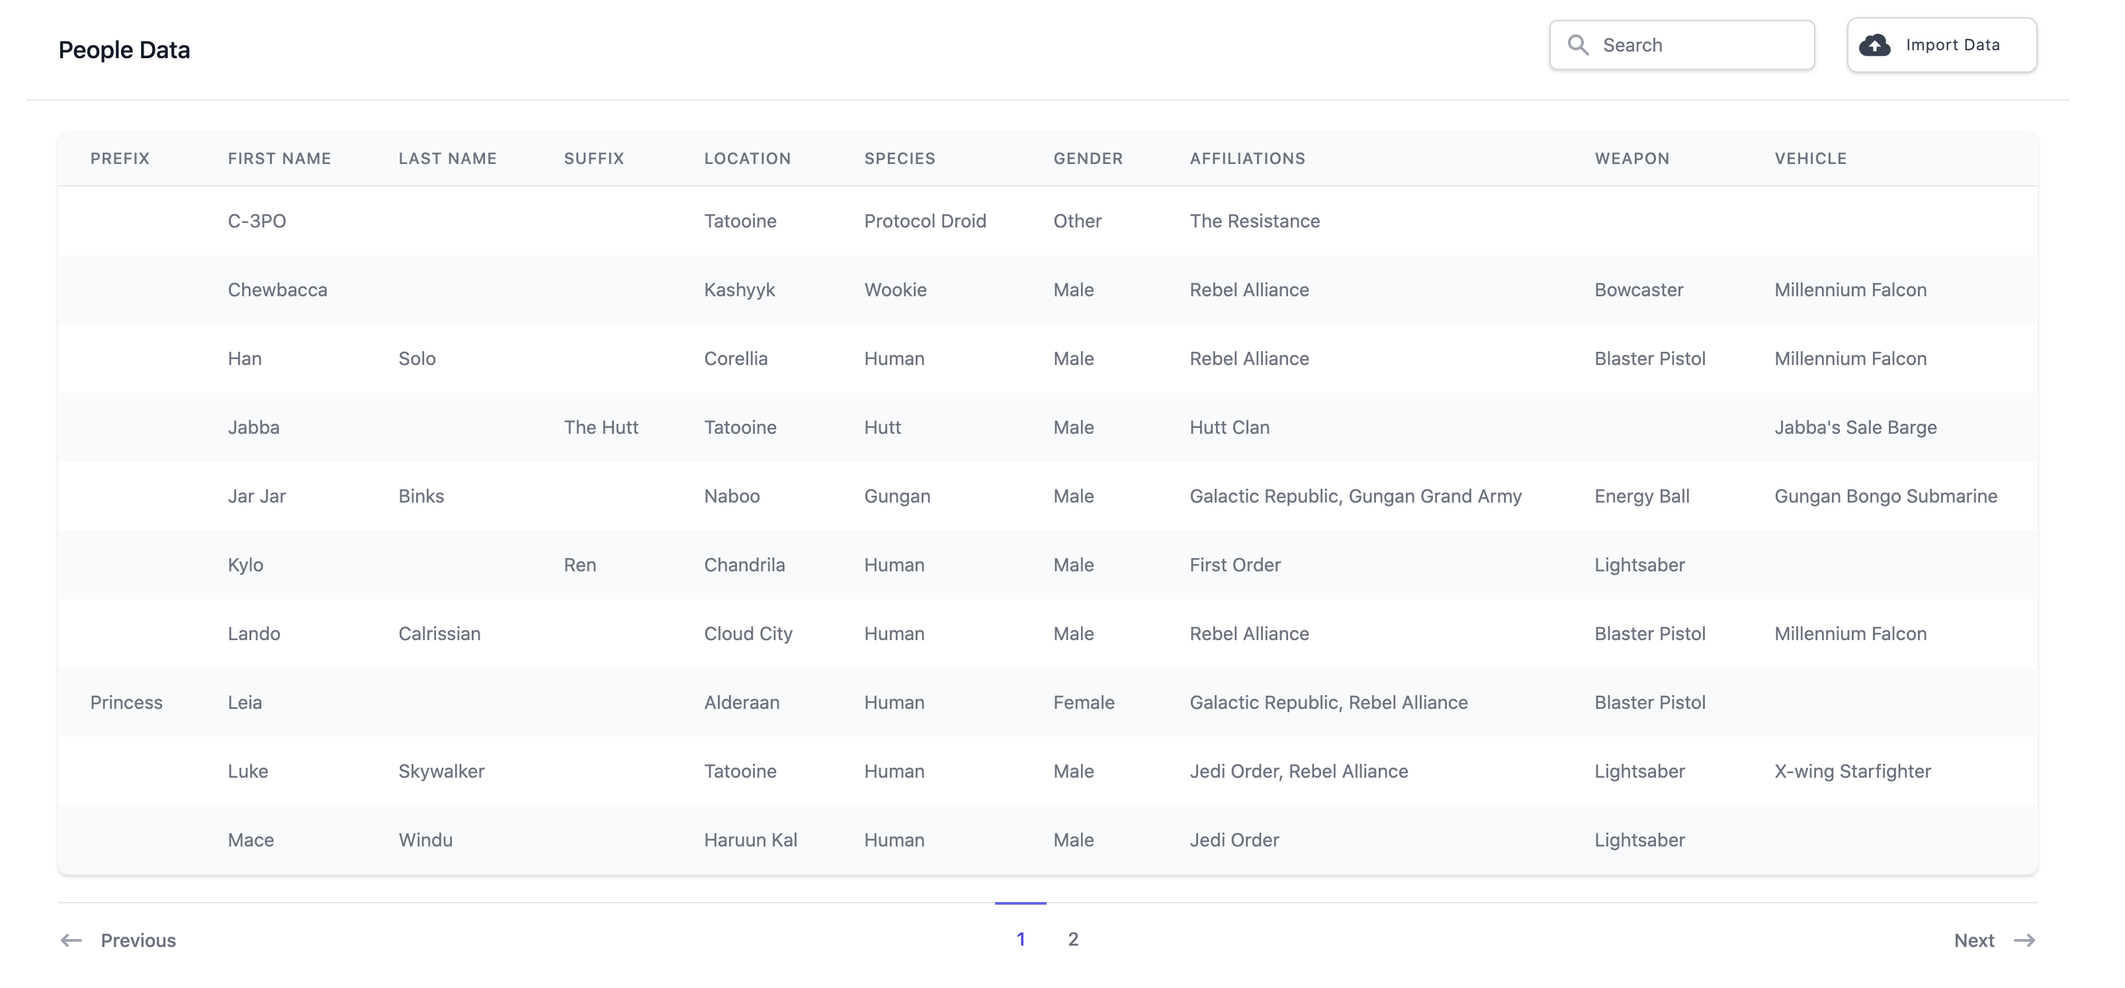
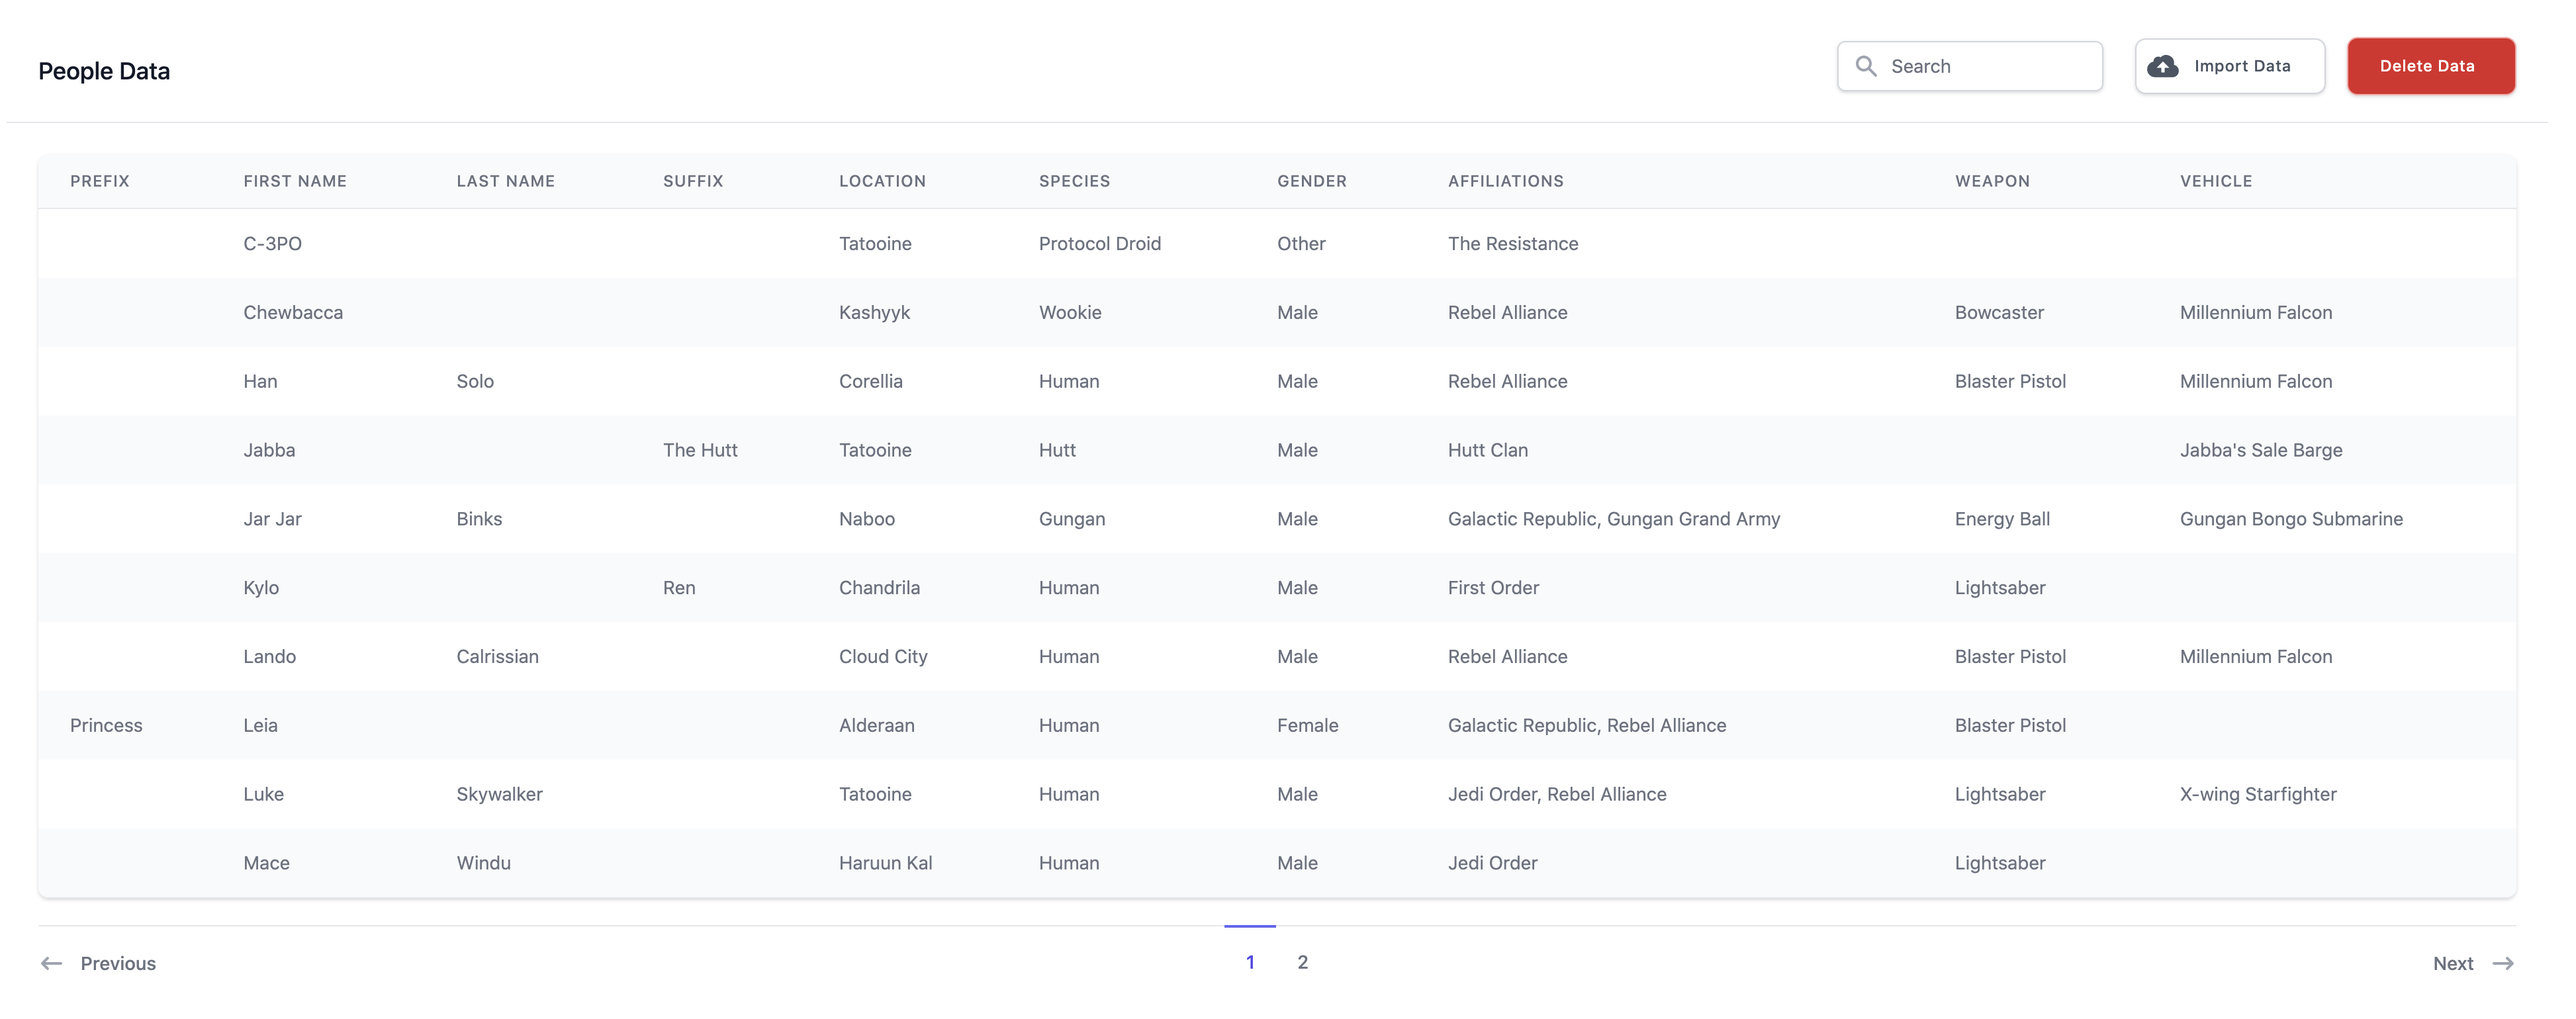
Add delete data button

diff --git a/app/javascript/stylesheets/people.scss b/app/javascript/stylesheets/people.scss
@@ -12,5 +12,5 @@
 }
 
 .data-import {
-  @apply w-36 flex items-center px-2 py-2 bg-white text-gray-700 rounded-lg shadow tracking-wide border border-gray-300 cursor-pointer hover:bg-indigo-500 hover:text-white;
+  @apply w-36 flex items-center px-2 py-2 bg-white text-gray-600 rounded-lg shadow tracking-wide border border-gray-300 cursor-pointer hover:bg-indigo-500 hover:text-white font-medium;
 }

diff --git a/app/controllers/data_imports_controller.rb b/app/controllers/data_imports_controller.rb
@@ -1,0 +1,13 @@
+class DataImportsController < ApplicationController
+  def create
+    DataImporter.import(params[:file])
+    redirect_to root_url, flash: { success: "Data imported successfully!" }
+  rescue
+    redirect_to root_url, flash: { error: "There were errors importing the data." }
+  end
+
+  def destroy
+    ActiveRecord::Tasks::DatabaseTasks.truncate_all
+    redirect_to root_url, flash: { success: "Data deleted successfully!" }
+  end
+end

diff --git a/config/routes.rb b/config/routes.rb
@@ -1,4 +1,4 @@
 Rails.application.routes.draw do
-  post 'data_import/create' => 'data_import#create'
-  root 'people#index'
+  resource :data_import, only: [:create, :destroy]
+  root "people#index"
 end

diff --git a/README.md b/README.md
@@ -9,6 +9,8 @@ The application comes from a coding test, and I decided to take it on just
 because I felt like I had not created a Rails application from scratch for a
 while.
 
+Currently deployed [here][sentiacodingtest] using [Heroku][].
+
 ## Language Versions
 
 - [Ruby][] 3.0.0
@@ -236,6 +238,7 @@ possible, only using:
 [`@apply`]: https://tailwindcss.com/docs/functions-and-directives#apply
 [Darth]: https://starwars.fandom.com/wiki/Darth
 [Draper]: https://github.com/drapergem/draper
+[Heroku]: https://www.heroku.com
 [Hutt]: https://starwars.fandom.com/wiki/Hutt
 [Javascript]: https://developer.mozilla.org/en-US/docs/Web/JavaScript
 [Kaminari]: https://github.com/kaminari/kaminari
@@ -246,6 +249,7 @@ possible, only using:
 [Ruby]: https://www.ruby-lang.org/en/
 [Ruby on Rails]: https://rubyonrails.org/
 [sample-csv-link]: https://docs.google.com/spreadsheets/d/10c7r-kjdWM4L8kWK0nfE6JgHskzqp7DTF8MkUIo7-_o/edit?usp=sharing
+[sentiacodingtest]: http://sentiacodingtest.herokuapp.com/
 [Suffix]: https://en.wikipedia.org/wiki/Suffix_(name)
 [Tailwind CSS]: https://tailwindcss.com/
 [Tailwind UI]: https://tailwindui.com/
